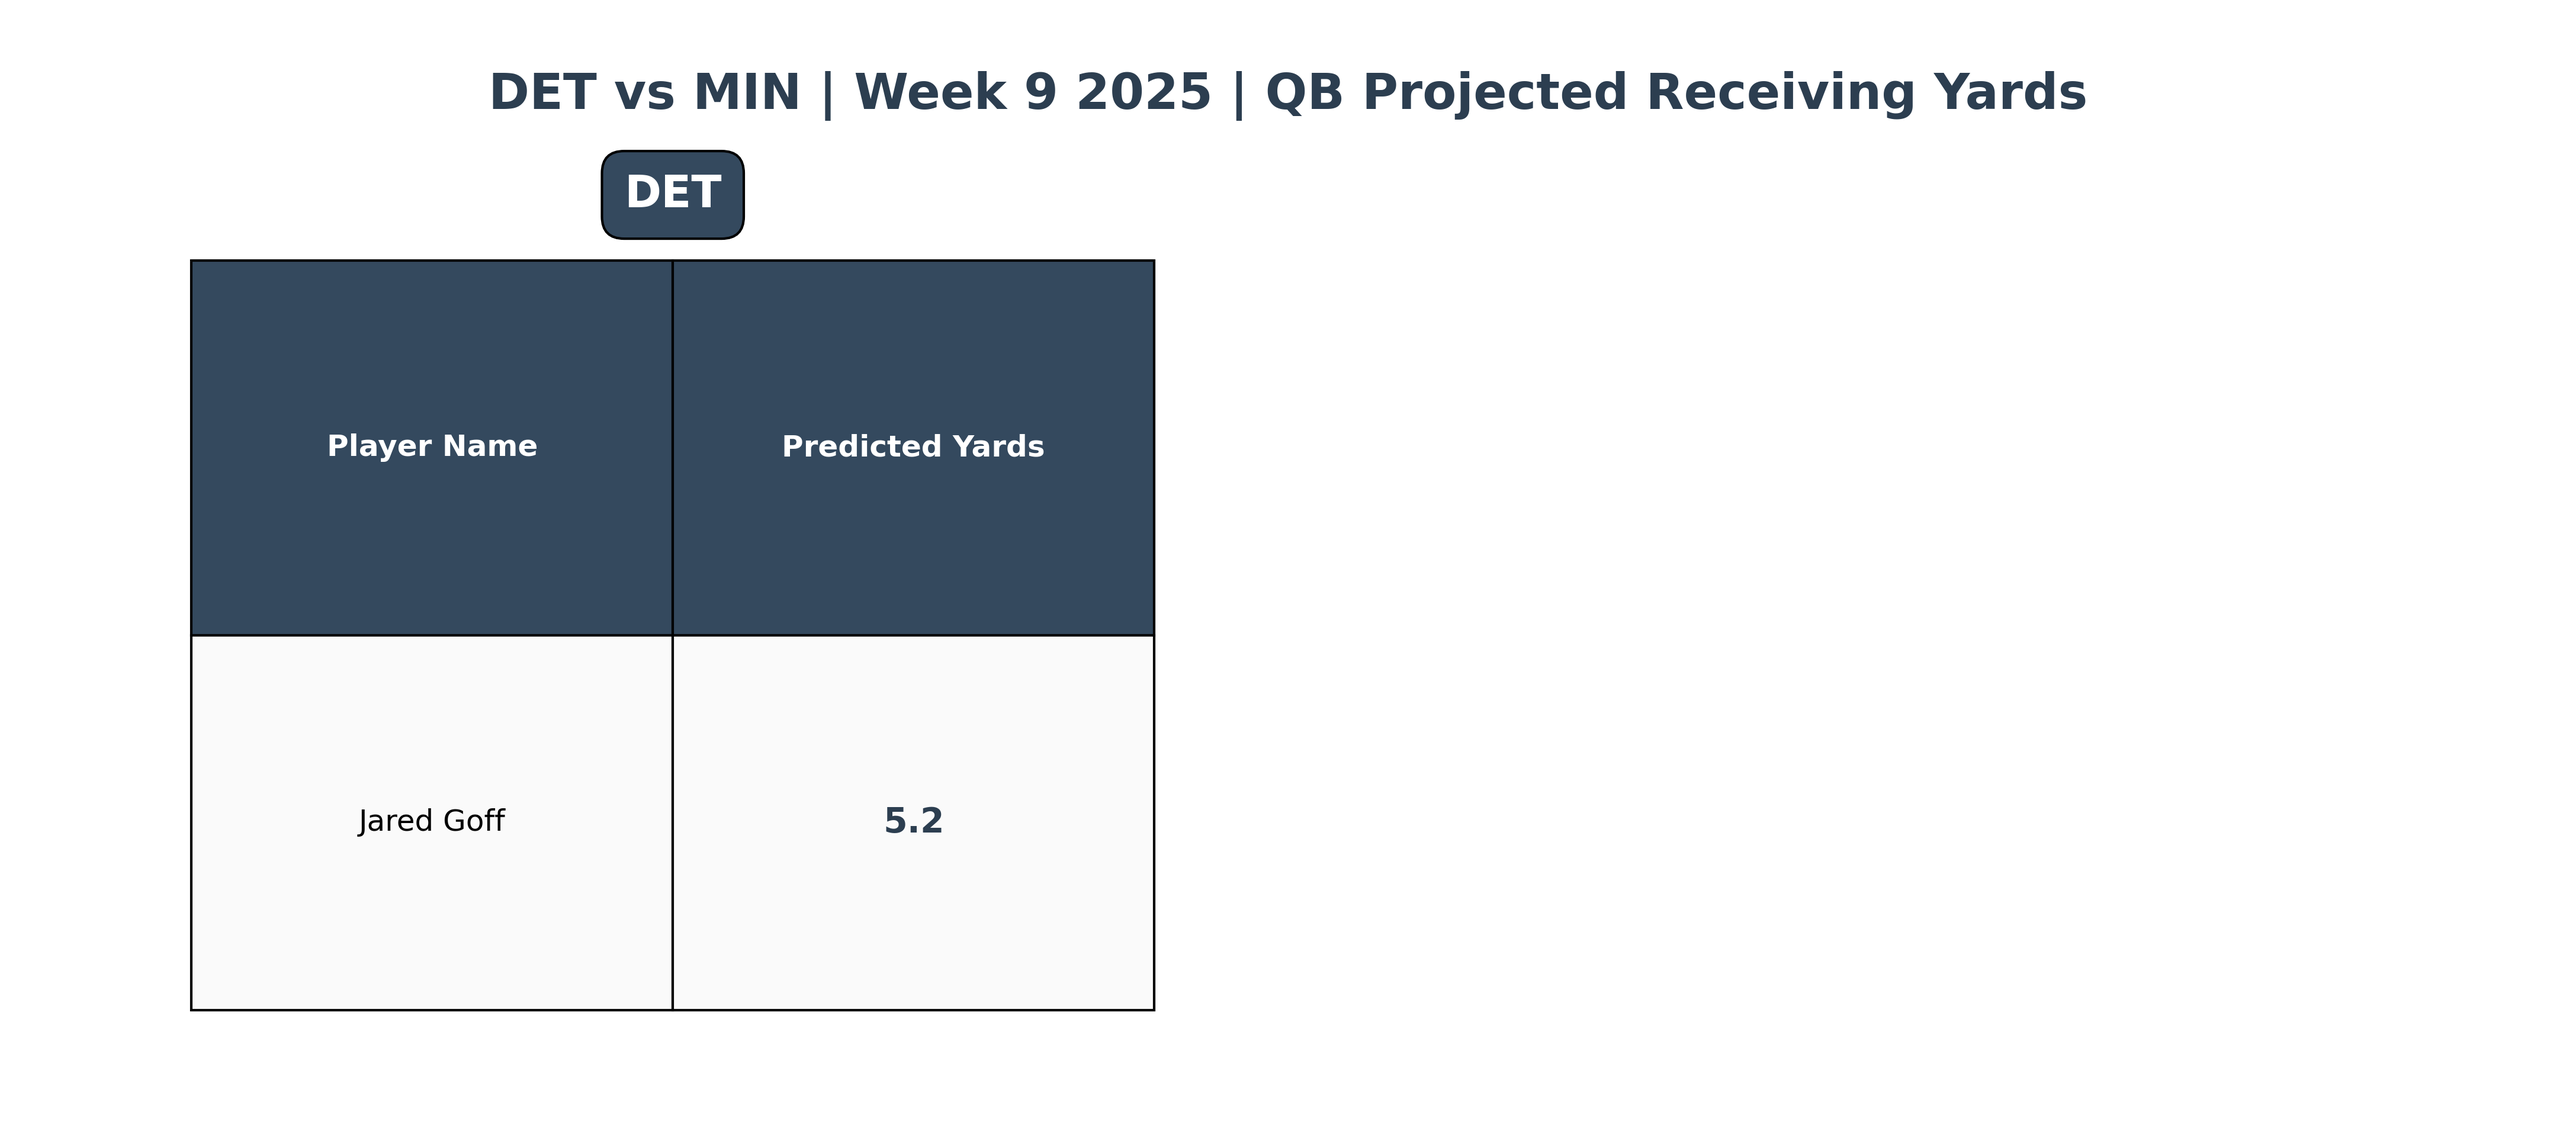
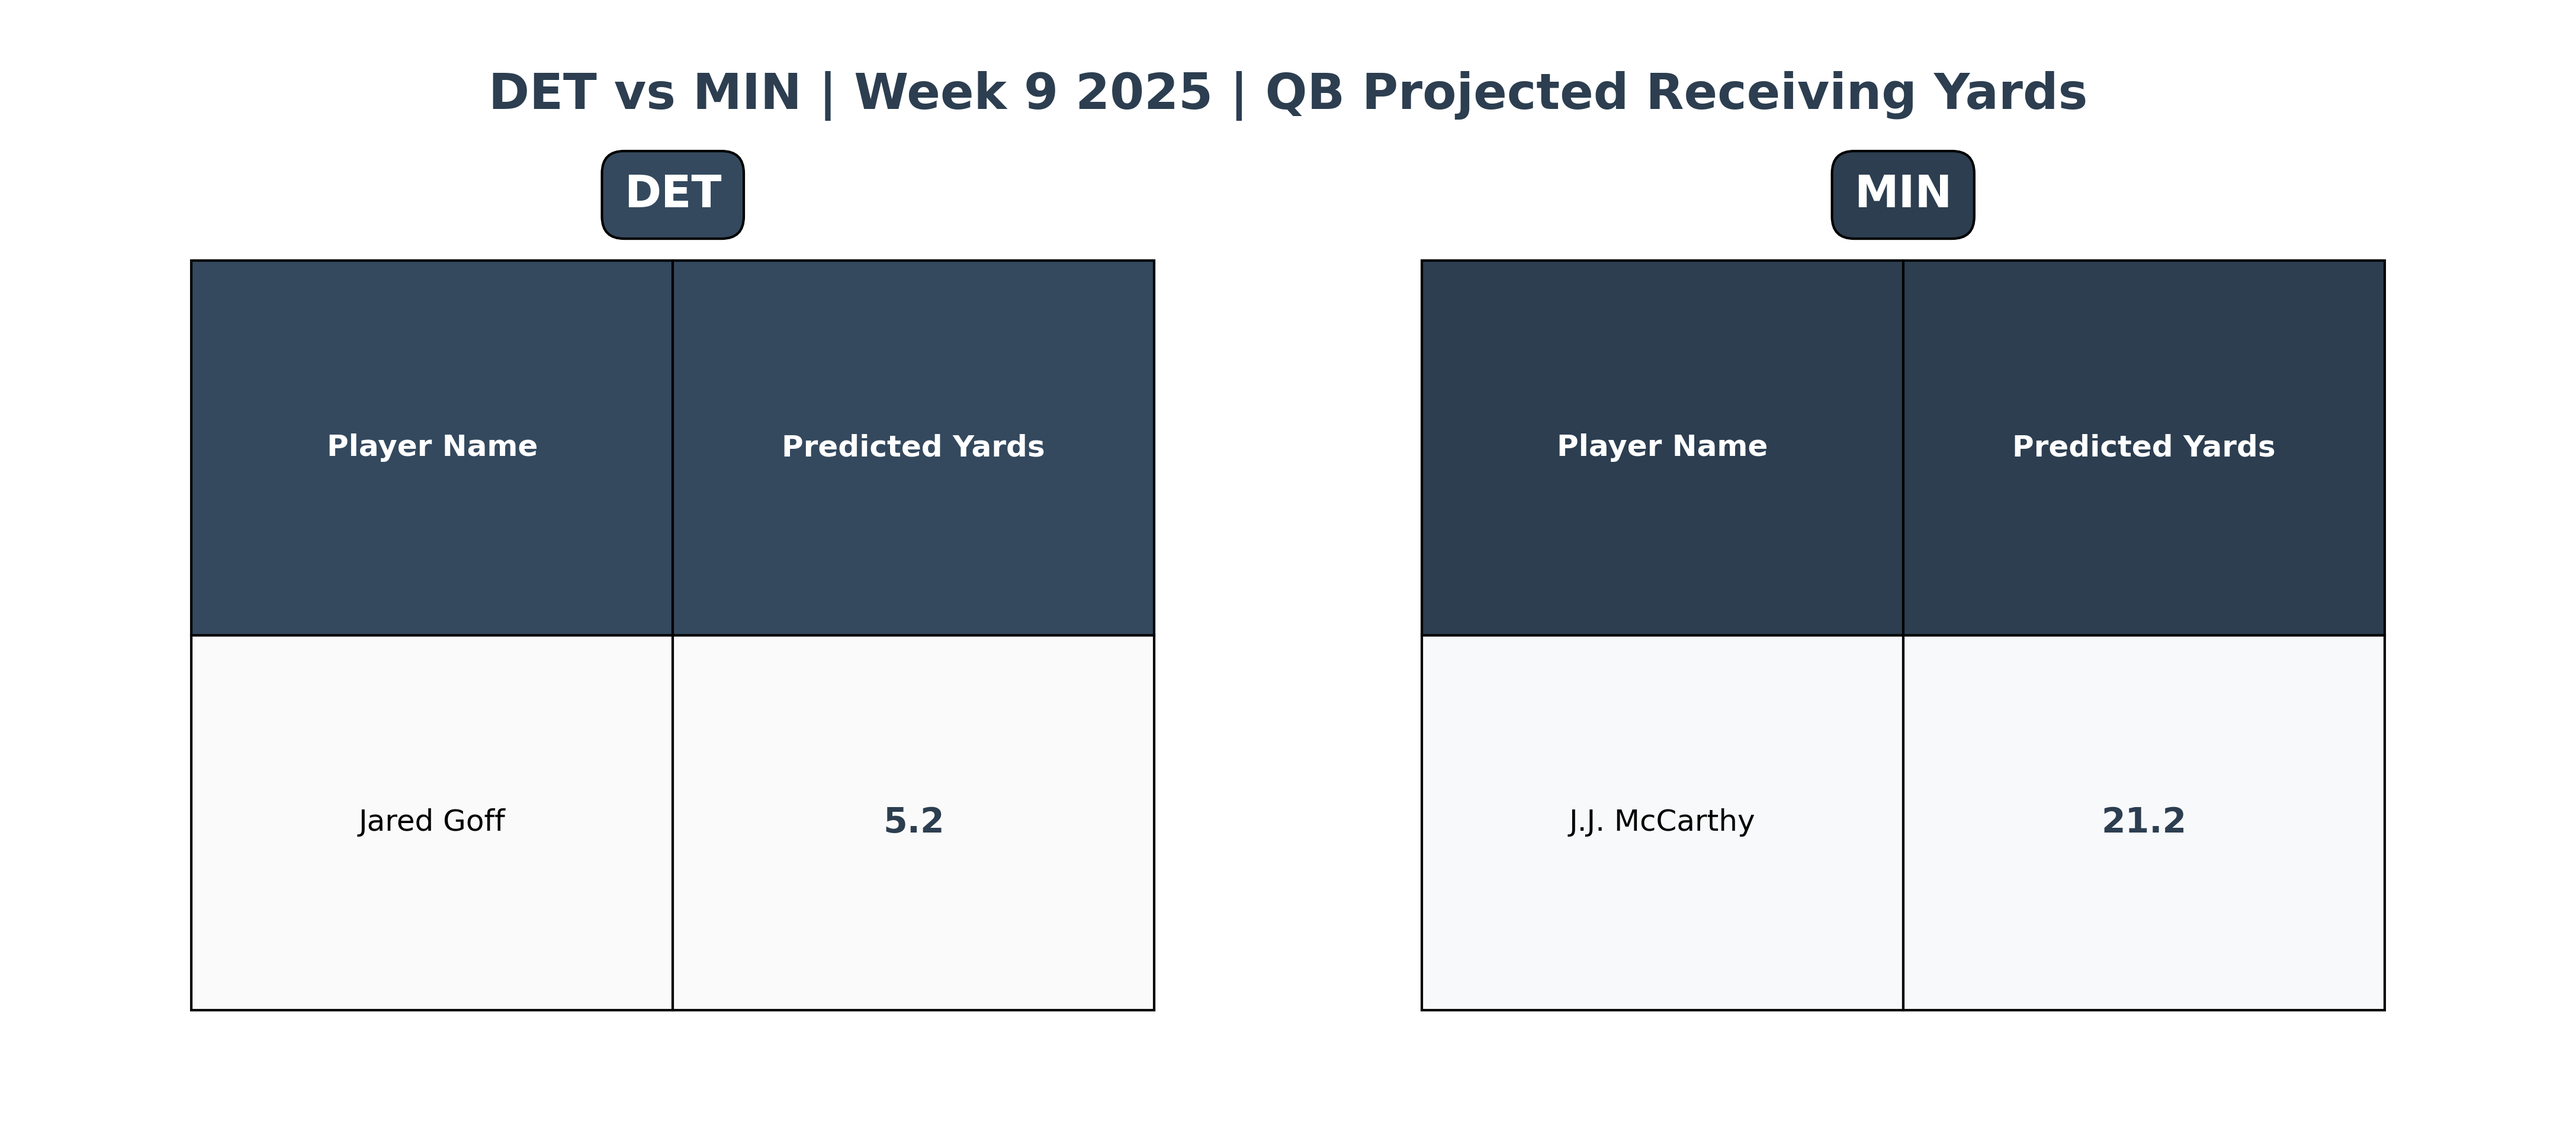
im dumb

diff --git a/Models/0-FINAL-REPORTS/week9_complete_props_report.html b/Models/0-FINAL-REPORTS/week9_complete_props_report.html
@@ -327,8 +327,8 @@
 <tbody>
 <tr><td>Rico Dowdle</td><td>RB</td><td class="prediction">60.1</td></tr>
 <tr><td>Chuba Hubbard</td><td>RB</td><td class="prediction">55.5</td></tr>
+<tr><td>Bryce Young</td><td>QB</td><td class="prediction">4.5</td></tr>
 <tr><td>DeeJay Dallas</td><td>RB</td><td class="prediction">0.9</td></tr>
-<tr><td>Andy Dalton</td><td>QB</td><td class="prediction">0.3</td></tr>
 </tbody></table>
 </div>
 <div class="team-column">
@@ -802,6 +802,7 @@
 <tr><td>Aaron Jones</td><td>RB</td><td class="prediction">50.8</td></tr>
 <tr><td>Jordan Mason</td><td>RB</td><td class="prediction">40.8</td></tr>
 <tr><td>Cam Akers</td><td>RB</td><td class="prediction">24.0</td></tr>
+<tr><td>J.J. McCarthy</td><td>QB</td><td class="prediction">21.2</td></tr>
 </tbody></table>
 </div>
 </div>
@@ -842,8 +843,8 @@
 </div>
 <div class="game-summary">
 <h4>📊 Game Summary</h4>
-<p><strong>Total Props:</strong> 22</p>
-<p><strong>With Predictions:</strong> 22</p>
+<p><strong>Total Props:</strong> 23</p>
+<p><strong>With Predictions:</strong> 23</p>
 <p><strong>No Data (Rookies):</strong> 0</p>
 <p><strong>Top Projection:</strong> Jared Goff (QB) - 234.8 passing yards</p>
 </div>

diff --git a/Models/2-RECEIVING-YARDS/predictions-week-9-RB/final_week9_RB_rec_yards_report.html b/Models/2-RECEIVING-YARDS/predictions-week-9-RB/final_week9_RB_rec_yards_report.html
@@ -109,7 +109,7 @@
     <div class="header">
         <h1>Week 9 RB Receiving Yards Predictions</h1>
         <p>Complete NFL Week 9 2025 RB Projections</p>
-        <p>Generated: 2025-11-03 02:59:11</p>
+        <p>Generated: 2025-11-03 03:11:34</p>
     </div>
     
     <div class="toc">
@@ -301,7 +301,7 @@
     </div>
     <div class="footer">
         <p>Week 9 RB Receiving Yards Predictions Report</p>
-        <p>Generated by NFL AI Models | 2025-11-03 02:59:11</p>
+        <p>Generated by NFL AI Models | 2025-11-03 03:11:34</p>
     </div>
 </body>
 </html>

diff --git a/Models/2-RECEIVING-YARDS/predictions-week-9-TE/final_week9_TE_rec_yards_report.html b/Models/2-RECEIVING-YARDS/predictions-week-9-TE/final_week9_TE_rec_yards_report.html
@@ -109,7 +109,7 @@
     <div class="header">
         <h1>Week 9 TE Receiving Yards Predictions</h1>
         <p>Complete NFL Week 9 2025 TE Projections</p>
-        <p>Generated: 2025-11-03 02:59:11</p>
+        <p>Generated: 2025-11-03 03:11:34</p>
     </div>
     
     <div class="toc">
@@ -301,7 +301,7 @@
     </div>
     <div class="footer">
         <p>Week 9 TE Receiving Yards Predictions Report</p>
-        <p>Generated by NFL AI Models | 2025-11-03 02:59:11</p>
+        <p>Generated by NFL AI Models | 2025-11-03 03:11:34</p>
     </div>
 </body>
 </html>

diff --git a/Models/2-RECEIVING-YARDS/predictions-week-9-WR/final_week9_WR_rec_yards_report.html b/Models/2-RECEIVING-YARDS/predictions-week-9-WR/final_week9_WR_rec_yards_report.html
@@ -109,7 +109,7 @@
     <div class="header">
         <h1>Week 9 WR Receiving Yards Predictions</h1>
         <p>Complete NFL Week 9 2025 WR Projections</p>
-        <p>Generated: 2025-11-03 02:59:11</p>
+        <p>Generated: 2025-11-03 03:11:34</p>
     </div>
     
     <div class="toc">
@@ -301,7 +301,7 @@
     </div>
     <div class="footer">
         <p>Week 9 WR Receiving Yards Predictions Report</p>
-        <p>Generated by NFL AI Models | 2025-11-03 02:59:11</p>
+        <p>Generated by NFL AI Models | 2025-11-03 03:11:34</p>
     </div>
 </body>
 </html>

diff --git a/Models/3-RUSHING-YARDS/predictions-week-9-QB/final_week9_QB_rush_yards_report.html b/Models/3-RUSHING-YARDS/predictions-week-9-QB/final_week9_QB_rush_yards_report.html
@@ -109,7 +109,7 @@
     <div class="header">
         <h1>Week 9 QB Rushing Yards Predictions</h1>
         <p>Complete NFL Week 9 2025 QB Projections</p>
-        <p>Generated: 2025-11-03 03:00:38</p>
+        <p>Generated: 2025-11-03 03:13:00</p>
     </div>
     
     <div class="toc">
@@ -301,7 +301,7 @@
     </div>
     <div class="footer">
         <p>Week 9 QB Receiving Yards Predictions Report</p>
-        <p>Generated by NFL AI Models | 2025-11-03 03:00:38</p>
+        <p>Generated by NFL AI Models | 2025-11-03 03:13:00</p>
     </div>
 </body>
 </html>

diff --git a/Models/3-RUSHING-YARDS/predictions-week-9-RB/final_week9_RB_rush_yards_report.html b/Models/3-RUSHING-YARDS/predictions-week-9-RB/final_week9_RB_rush_yards_report.html
@@ -109,7 +109,7 @@
     <div class="header">
         <h1>Week 9 RB Rushing Yards Predictions</h1>
         <p>Complete NFL Week 9 2025 RB Projections</p>
-        <p>Generated: 2025-11-03 03:00:38</p>
+        <p>Generated: 2025-11-03 03:13:00</p>
     </div>
     
     <div class="toc">
@@ -301,7 +301,7 @@
     </div>
     <div class="footer">
         <p>Week 9 RB Receiving Yards Predictions Report</p>
-        <p>Generated by NFL AI Models | 2025-11-03 03:00:38</p>
+        <p>Generated by NFL AI Models | 2025-11-03 03:13:00</p>
     </div>
 </body>
 </html>

diff --git a/Models/1-PASSING-YARDS/predictions-week-9-QB/final_week9_QB_pass_yards_report.html b/Models/1-PASSING-YARDS/predictions-week-9-QB/final_week9_QB_pass_yards_report.html
@@ -109,7 +109,7 @@
     <div class="header">
         <h1>Week 9 QB Passing Yards Predictions</h1>
         <p>Complete NFL Week 9 2025 QB Projections</p>
-        <p>Generated: 2025-11-03 02:57:27</p>
+        <p>Generated: 2025-11-03 03:09:50</p>
     </div>
     
     <div class="toc">
@@ -301,7 +301,7 @@
     </div>
     <div class="footer">
         <p>Week 9 QB Passing Yards Predictions Report</p>
-        <p>Generated by NFL AI Models | 2025-11-03 02:57:27</p>
+        <p>Generated by NFL AI Models | 2025-11-03 03:09:50</p>
     </div>
 </body>
 </html>
